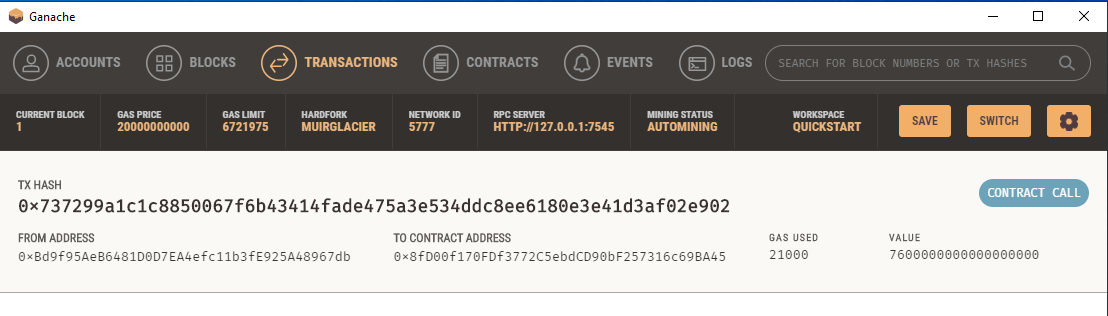
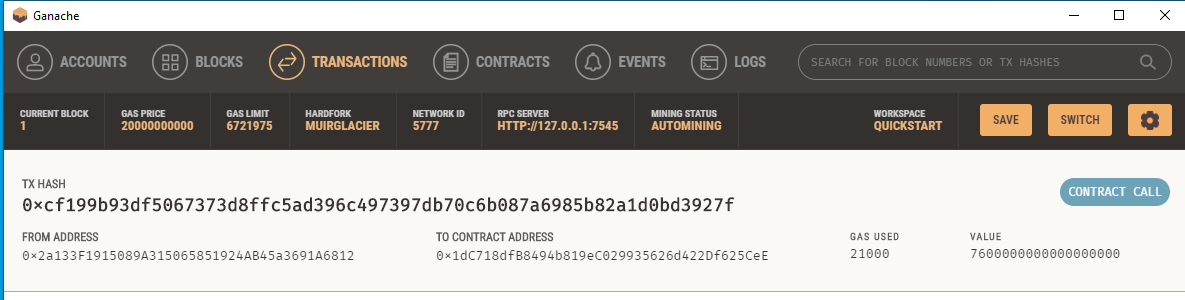
ver 1.1 - Final

diff --git a/fintech_finder.py b/fintech_finder.py
@@ -87,10 +87,10 @@ from crypto_wallet import generate_account, get_balance, send_transaction
 # Database of Fintech Finder candidates including their name, digital address, rating and hourly cost per Ether.
 # A single Ether is currently valued at $1,500
 candidate_database = {
-    "Lane": ["Lane", "0xaC8eB8B2ed5C4a0fC41a84Ee4950F417f67029F0", "4.3", .20, "Images/lane.jpeg"],
-    "Ash": ["Ash", "0x2422858F9C4480c2724A309D58Ffd7Ac8bF65396", "5.0", .33, "Images/ash.jpeg"],
-    "Jo": ["Jo", "0x8fD00f170FDf3772C5ebdCD90bF257316c69BA45", "4.7", .19, "Images/jo.jpeg"],
-    "Kendall": ["Kendall", "0x8fD00f170FDf3772C5ebdCD90bF257316c69BA45", "4.1", .16, "Images/kendall.jpeg"]
+    "Lane": ["Lane", "0x03798bBdc4D86d8fEdA53180211299263861E6CB", "4.3", .20, "Images/lane.jpeg"],
+    "Ash": ["Ash", "0xd64C438F0f9C8b29E14E2EE6c1182908aDD9A0B3", "5.0", .33, "Images/ash.jpeg"],
+    "Jo": ["Jo", "0x1dC718dfB8494b819eC029935626d422Df625CeE", "4.7", .19, "Images/jo.jpeg"],
+    "Kendall": ["Kendall", "0x0EfD77540b918db9BC309212E30fe24f0ef841D3", "4.1", .16, "Images/kendall.jpeg"]
 }
 
 # A list of the FinTech Finder candidates first names
